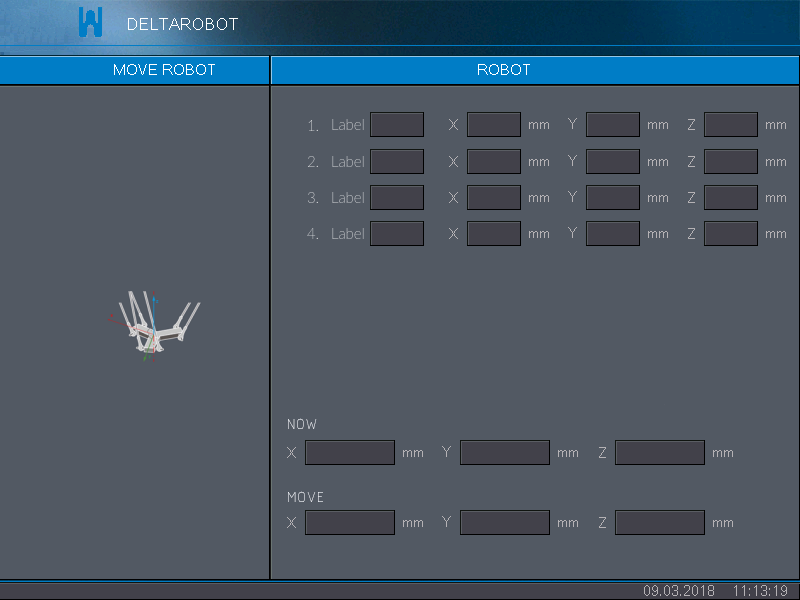
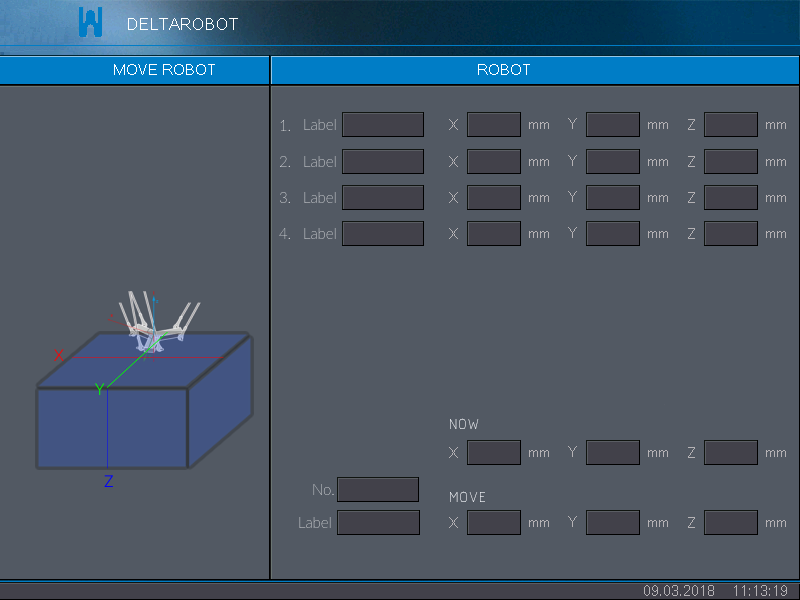
231220

diff --git a/move2.py b/move2.py
@@ -9,6 +9,7 @@ from geometry_msgs.msg import Point
 
 # function.py 에서 class 호출
 from function import xyz_button
+from home import MyHome
 
 # setting.py 에서 값 호출
 import setting
@@ -19,14 +20,14 @@ y = setting.y
 z = setting.z
 
 # 리스트업 버튼 클릭 후 txt 로 만들기
-file_path = "/workspace/pyqt_delta/document/home_list.txt"
-# home_list.txt 파일 만들기
-if not os.path.exists(file_path):
-    with open(file_path, 'w') as file:
-        for _ in range(4):
-            file.write('0 0 0 0\n')
+# file_path = "/workspace/pyqt_delta/document/move_list.txt"
+# # home_list.txt 파일 만들기
+# if not os.path.exists(file_path):
+#     with open(file_path, 'w') as file:
+#         for _ in range(4):
+#             file.write('0 0 0 0\n')
 
-class MyHome(QWidget):
+class MyMove2(QWidget):
     goToStartScreen = pyqtSignal()
 
     def __init__(self, node):
@@ -39,7 +40,7 @@ class MyHome(QWidget):
 
     def initUI(self):
 ######## 이미지 넣기 #######################################################
-        original_pixmap = QPixmap("/workspace/pyqt_delta/img/home2.png")
+        original_pixmap = QPixmap("/workspace/pyqt_delta/img/test.png")
         scaled_pixmap = original_pixmap.scaled(800, 600, Qt.KeepAspectRatio, Qt.SmoothTransformation)
         # QLabel 생성 및 QPixmap 설정
         lbl_img = QLabel(self)
@@ -73,7 +74,8 @@ class MyHome(QWidget):
         self.labelZ.setGeometry(590, 410, 100, 30)  # Adjust position and size as needed
 
         # home_list.txt 의 정보 읽어오기
-        with open(file_path, 'r') as file:
+        file_path_home = '/workspace/pyqt_delta/document/home_list.txt'
+        with open(file_path_home, 'r') as file:
             lines = file.readlines()
         # 각 줄의 데이터를 변수에 저장합니다.
         if len(lines) <= 4 :
@@ -156,32 +158,32 @@ class MyHome(QWidget):
         self.label4_z.setGeometry(649, 225, 100, 30)  # Adjust position and size as needed
 
         # workspace 정보
-        self.workspace_x = QLabel(f"Max : {setting.x_max}", self)
-        self.workspace_x.setStyleSheet("Color : white")
-        self.workspace_x.setAlignment(Qt.AlignRight)
-        self.workspace_x.setGeometry(5, 360, 100, 30)  # Adjust position and size as needed
-        self.workspace_xn = QLabel(f"Min : {setting.x_min}", self)
-        self.workspace_xn.setStyleSheet("Color : white")
-        self.workspace_xn.setAlignment(Qt.AlignRight)
-        self.workspace_xn.setGeometry(150, 360, 100, 30)  # Adjust position and size as needed
+        # self.workspace_x = QLabel(f"Max : {setting.x_max}", self)
+        # self.workspace_x.setStyleSheet("Color : white")
+        # self.workspace_x.setAlignment(Qt.AlignRight)
+        # self.workspace_x.setGeometry(5, 360, 100, 30)  # Adjust position and size as needed
+        # self.workspace_xn = QLabel(f"Min : {setting.x_min}", self)
+        # self.workspace_xn.setStyleSheet("Color : white")
+        # self.workspace_xn.setAlignment(Qt.AlignRight)
+        # self.workspace_xn.setGeometry(150, 360, 100, 30)  # Adjust position and size as needed
         
-        self.workspace_y = QLabel(f"Max : {setting.y_max}", self)
-        self.workspace_y.setStyleSheet("Color : white")
-        self.workspace_y.setAlignment(Qt.AlignRight)
-        self.workspace_y.setGeometry(70, 395, 100, 30)  # Adjust position and size as needed
-        self.workspace_yn = QLabel(f"Min : {setting.y_min}", self)
-        self.workspace_yn.setStyleSheet("Color : white")
-        self.workspace_yn.setAlignment(Qt.AlignRight)
-        self.workspace_yn.setGeometry(110, 335, 100, 30)  # Adjust position and size as needed
+        # self.workspace_y = QLabel(f"Max : {setting.y_max}", self)
+        # self.workspace_y.setStyleSheet("Color : white")
+        # self.workspace_y.setAlignment(Qt.AlignRight)
+        # self.workspace_y.setGeometry(70, 395, 100, 30)  # Adjust position and size as needed
+        # self.workspace_yn = QLabel(f"Min : {setting.y_min}", self)
+        # self.workspace_yn.setStyleSheet("Color : white")
+        # self.workspace_yn.setAlignment(Qt.AlignRight)
+        # self.workspace_yn.setGeometry(110, 335, 100, 30)  # Adjust position and size as needed
         
         self.workspace_z = QLabel(f"Max : {setting.z_max}", self)
         self.workspace_z.setStyleSheet("Color : white")
         self.workspace_z.setAlignment(Qt.AlignRight)
-        self.workspace_z.setGeometry(5, 415, 100, 30)  # Adjust position and size as needed
+        self.workspace_z.setGeometry(190, 300, 100, 30)  # Adjust position and size as needed
         self.workspace_zn = QLabel(f"Min : {setting.z_min}", self)
         self.workspace_zn.setStyleSheet("Color : white")
         self.workspace_zn.setAlignment(Qt.AlignRight)
-        self.workspace_zn.setGeometry(5, 470, 100, 30)  # Adjust position and size as needed
+        self.workspace_zn.setGeometry(190, 470, 100, 30)  # Adjust position and size as needed
         
 
         ### 직접 입력 창들
@@ -372,7 +374,7 @@ class MyHome(QWidget):
         # 뒤로 가기 버튼
         self.btnback = QPushButton('<<', self)
         self.btnback.clicked.connect(self.goToStartScreen.emit)
-        self.btnback.setGeometry(10, 100, 50, 50)
+        self.btnback.setGeometry(10, 190, 50, 50)
         # self.btnback.raise_()  # Raise the button to the top of the widget stack
 
 
@@ -434,7 +436,7 @@ class GUI_Node(Node):
         super().__init__('gui_node')
         self.publisher_xyz = self.create_publisher(Point, 'input_xyz', 10)
         self.app = QApplication(sys.argv)
-        self.gui = MyHome(self)
+        self.gui = MyMove2(self)
         self.timer = self.create_timer(0.1, self.timer_callback)
 
     def timer_callback(self):

diff --git a/move.py b/move.py
@@ -9,6 +9,7 @@ from geometry_msgs.msg import Point
 
 # function.py 에서 class 호출
 from function import xyz_button
+from home import MyHome
 
 # setting.py 에서 값 호출
 import setting
@@ -19,14 +20,14 @@ y = setting.y
 z = setting.z
 
 # 리스트업 버튼 클릭 후 txt 로 만들기
-file_path = "/workspace/pyqt_delta/document/home_list.txt"
+file_path = "/workspace/pyqt_delta/document/move_list.txt"
 # home_list.txt 파일 만들기
 if not os.path.exists(file_path):
     with open(file_path, 'w') as file:
         for _ in range(4):
             file.write('0 0 0 0\n')
 
-class MyHome(QWidget):
+class MyMove(QWidget):
     goToStartScreen = pyqtSignal()
 
     def __init__(self, node):
@@ -39,7 +40,7 @@ class MyHome(QWidget):
 
     def initUI(self):
 ######## 이미지 넣기 #######################################################
-        original_pixmap = QPixmap("/workspace/pyqt_delta/img/home2.png")
+        original_pixmap = QPixmap("/workspace/pyqt_delta/img/move.png")
         scaled_pixmap = original_pixmap.scaled(800, 600, Qt.KeepAspectRatio, Qt.SmoothTransformation)
         # QLabel 생성 및 QPixmap 설정
         lbl_img = QLabel(self)
@@ -73,7 +74,8 @@ class MyHome(QWidget):
         self.labelZ.setGeometry(590, 410, 100, 30)  # Adjust position and size as needed
 
         # home_list.txt 의 정보 읽어오기
-        with open(file_path, 'r') as file:
+        file_path_home = '/workspace/pyqt_delta/document/home_list.txt'
+        with open(file_path_home, 'r') as file:
             lines = file.readlines()
         # 각 줄의 데이터를 변수에 저장합니다.
         if len(lines) <= 4 :
@@ -156,32 +158,32 @@ class MyHome(QWidget):
         self.label4_z.setGeometry(649, 225, 100, 30)  # Adjust position and size as needed
 
         # workspace 정보
-        self.workspace_x = QLabel(f"Max : {setting.x_max}", self)
-        self.workspace_x.setStyleSheet("Color : white")
-        self.workspace_x.setAlignment(Qt.AlignRight)
-        self.workspace_x.setGeometry(5, 360, 100, 30)  # Adjust position and size as needed
-        self.workspace_xn = QLabel(f"Min : {setting.x_min}", self)
-        self.workspace_xn.setStyleSheet("Color : white")
-        self.workspace_xn.setAlignment(Qt.AlignRight)
-        self.workspace_xn.setGeometry(150, 360, 100, 30)  # Adjust position and size as needed
+        # self.workspace_x = QLabel(f"Max : {setting.x_max}", self)
+        # self.workspace_x.setStyleSheet("Color : white")
+        # self.workspace_x.setAlignment(Qt.AlignRight)
+        # self.workspace_x.setGeometry(5, 360, 100, 30)  # Adjust position and size as needed
+        # self.workspace_xn = QLabel(f"Min : {setting.x_min}", self)
+        # self.workspace_xn.setStyleSheet("Color : white")
+        # self.workspace_xn.setAlignment(Qt.AlignRight)
+        # self.workspace_xn.setGeometry(150, 360, 100, 30)  # Adjust position and size as needed
         
-        self.workspace_y = QLabel(f"Max : {setting.y_max}", self)
-        self.workspace_y.setStyleSheet("Color : white")
-        self.workspace_y.setAlignment(Qt.AlignRight)
-        self.workspace_y.setGeometry(70, 395, 100, 30)  # Adjust position and size as needed
-        self.workspace_yn = QLabel(f"Min : {setting.y_min}", self)
-        self.workspace_yn.setStyleSheet("Color : white")
-        self.workspace_yn.setAlignment(Qt.AlignRight)
-        self.workspace_yn.setGeometry(110, 335, 100, 30)  # Adjust position and size as needed
+        # self.workspace_y = QLabel(f"Max : {setting.y_max}", self)
+        # self.workspace_y.setStyleSheet("Color : white")
+        # self.workspace_y.setAlignment(Qt.AlignRight)
+        # self.workspace_y.setGeometry(70, 395, 100, 30)  # Adjust position and size as needed
+        # self.workspace_yn = QLabel(f"Min : {setting.y_min}", self)
+        # self.workspace_yn.setStyleSheet("Color : white")
+        # self.workspace_yn.setAlignment(Qt.AlignRight)
+        # self.workspace_yn.setGeometry(110, 335, 100, 30)  # Adjust position and size as needed
         
         self.workspace_z = QLabel(f"Max : {setting.z_max}", self)
         self.workspace_z.setStyleSheet("Color : white")
         self.workspace_z.setAlignment(Qt.AlignRight)
-        self.workspace_z.setGeometry(5, 415, 100, 30)  # Adjust position and size as needed
+        self.workspace_z.setGeometry(190, 300, 100, 30)  # Adjust position and size as needed
         self.workspace_zn = QLabel(f"Min : {setting.z_min}", self)
         self.workspace_zn.setStyleSheet("Color : white")
         self.workspace_zn.setAlignment(Qt.AlignRight)
-        self.workspace_zn.setGeometry(5, 470, 100, 30)  # Adjust position and size as needed
+        self.workspace_zn.setGeometry(190, 470, 100, 30)  # Adjust position and size as needed
         
 
         ### 직접 입력 창들
@@ -372,7 +374,7 @@ class MyHome(QWidget):
         # 뒤로 가기 버튼
         self.btnback = QPushButton('<<', self)
         self.btnback.clicked.connect(self.goToStartScreen.emit)
-        self.btnback.setGeometry(10, 100, 50, 50)
+        self.btnback.setGeometry(10, 190, 50, 50)
         # self.btnback.raise_()  # Raise the button to the top of the widget stack
 
 
@@ -434,7 +436,7 @@ class GUI_Node(Node):
         super().__init__('gui_node')
         self.publisher_xyz = self.create_publisher(Point, 'input_xyz', 10)
         self.app = QApplication(sys.argv)
-        self.gui = MyHome(self)
+        self.gui = MyMove(self)
         self.timer = self.create_timer(0.1, self.timer_callback)
 
     def timer_callback(self):

diff --git a/start.py b/start.py
@@ -10,6 +10,7 @@ from datetime import datetime
 
 from main import MyApp
 from home import MyHome
+from move import MyMove
 
 
 
@@ -34,15 +35,38 @@ class StartWindow(QWidget):
         lbl_img.setPixmap(scaled_pixmap)
         lbl_img.setGeometry(0, 0, scaled_pixmap.width(), scaled_pixmap.height())
 
-####### 버튼1 ######################################################################
-        startButton = QPushButton('Go1', self)
-        startButton.clicked.connect(self.gotoMain)
-        startButton.setGeometry(10, 10, 50, 50)
+####### start ######################################################################
+        self.startButton = QPushButton('START', self)
+        self.startButton.clicked.connect(self.startOperation)
+        self.startButton.setGeometry(200, 300, 100, 100)
 
-####### 버튼2 ######################################################################
-        homingButton = QPushButton('Go2', self)
-        homingButton.clicked.connect(self.gotoHome)
-        homingButton.setGeometry(10, 100, 50, 50)
+####### stop ######################################################################
+        self.stopButton = QPushButton('STOP', self)
+        self.stopButton.clicked.connect(self.stopOperation)
+        self.stopButton.setGeometry(400, 300, 100, 100)
+    
+####### go main ######################################################################
+        self.mainButton = QPushButton('Go1', self)
+        self.mainButton.clicked.connect(self.gotoMain)
+        self.mainButton.setGeometry(10, 10, 50, 50)
+
+####### go home ######################################################################
+        self.homingButton = QPushButton('Go2', self)
+        self.homingButton.clicked.connect(self.gotoHome)
+        self.homingButton.setGeometry(10, 100, 50, 50)
+
+####### go move ######################################################################
+        self.movingButton = QPushButton('Go3', self)
+        self.movingButton.clicked.connect(self.gotoMove)
+        self.movingButton.setGeometry(10, 190, 50, 50)
+
+####### # Initially disable XYZ buttons ######################################
+        # self.startButton.setDisabled(True)
+        # self.stopButton.setDisabled(True)
+        self.mainButton.setDisabled(True)
+        self.homingButton.setDisabled(True)
+        self.movingButton.setDisabled(True)
+
 
 ####### 시간 ######################################################################
         # 시간을 표시할 QLabel 생성
@@ -62,11 +86,17 @@ class StartWindow(QWidget):
         main_window = self.parent().findChild(MyApp)
         self.parent().setCurrentWidget(main_window)
 
-####### main 으로 #################################################################
+####### home 으로 #################################################################
 
     def gotoHome(self):
         home_window = self.parent().findChild(MyHome)
         self.parent().setCurrentWidget(home_window)
+
+####### home 으로 #################################################################
+
+    def gotoMove(self):
+        move_window = self.parent().findChild(MyMove)
+        self.parent().setCurrentWidget(move_window)
 
 ####### 시간 #################################################################
     def update_time(self):
@@ -75,7 +105,22 @@ class StartWindow(QWidget):
         self.time_label.setText(current_time)
 
 
+    def startOperation(self):
+        # self.startButton.setDisabled(False)
+        # self.stopButton.setDisabled(False)
+        self.mainButton.setDisabled(False)
+        self.homingButton.setDisabled(False)
+        self.movingButton.setDisabled(False)
+        print("Operation started")
 
+    # stop 누르면 비활성화
+    def stopOperation(self):
+        # self.startButton.setDisabled(True)
+        # self.stopButton.setDisabled(True)
+        self.mainButton.setDisabled(True)
+        self.homingButton.setDisabled(True)
+        self.movingButton.setDisabled(True)
+        print("Operation stopped")
 
 
 
@@ -84,7 +129,7 @@ class GUI_Node(Node):
         super().__init__('gui_node')
         # Publisher 생성
         self.publisher_xyz = self.create_publisher(Point, 'input_xyz', 10)
-        
+
         # PyQT 생성을 위함
         self.app = QApplication(sys.argv)
         self.stack = QStackedWidget() # Stack을 통한 Widget 띄우기에 필요한 것. 
@@ -96,6 +141,10 @@ class GUI_Node(Node):
         # Homing page 불러옴
         self.homeApp = MyHome(self)
         self.homeApp.goToStartScreen.connect(self.showStartWindow)
+
+        # Homing page 불러옴
+        self.moveApp = MyMove(self)
+        self.moveApp.goToStartScreen.connect(self.showStartWindow)
 
         # 추가할 page 불러옴
         # ~~~~~~~~~~~~~~
@@ -110,12 +159,11 @@ class GUI_Node(Node):
         self.stack.addWidget(self.start_window)
         self.stack.addWidget(self.mainApp)
         self.stack.addWidget(self.homeApp)
-
-
+        self.stack.addWidget(self.moveApp)
 
 
         # stack의 타이틀을 설정함 (예: 첫 번째 위젯이 표시될 때) - 부모에 설정
-        self.stack.setWindowTitle('W-DELTA BOT Application')
+        self.stack.setWindowTitle('W-ECOBOT Application')
         # 창 타이틀 아이콘 - 윈도우에서는 가능
         self.stack.setWindowIcon(QIcon('/workspace/pyqt_delta/img/eth.png'))
         # self.resize(400, 200)

diff --git a/main.py b/main.py
@@ -38,7 +38,7 @@ class MyApp(QWidget):
 
 
         # 이미지 넣기
-        original_pixmap = QPixmap("/workspace/pyqt_delta/img/main2.png")
+        original_pixmap = QPixmap("/workspace/pyqt_delta/img/main3.png")
         scaled_pixmap = original_pixmap.scaled(800, 600, Qt.KeepAspectRatio, Qt.SmoothTransformation)
         # QLabel 생성 및 QPixmap 설정
         lbl_img = QLabel(self)

diff --git a/setting.py b/setting.py
@@ -11,8 +11,10 @@ z = -350
 # 한계 설정
 x_max = 200
 x_min = -200
+
 y_max = 200
 y_min = -200
+
 z_max = -320
 z_min = -370
 
